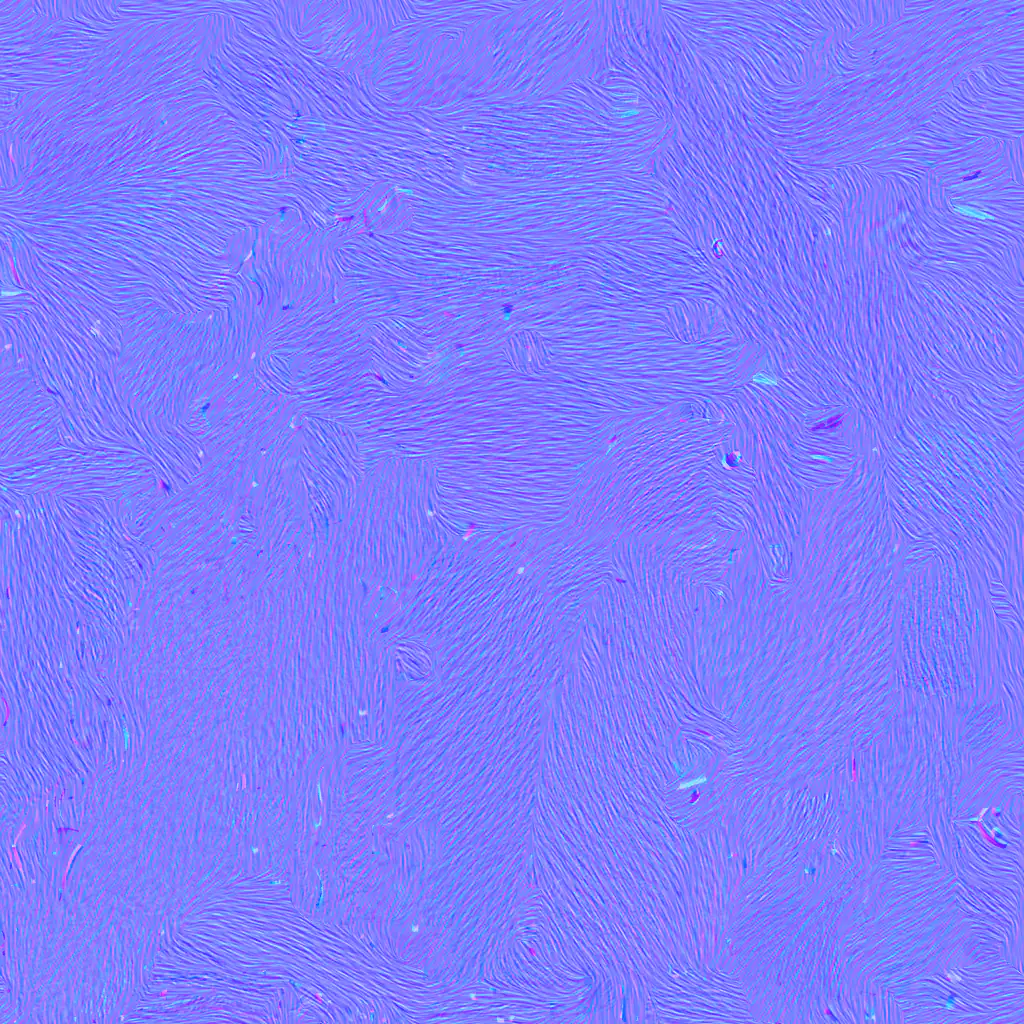
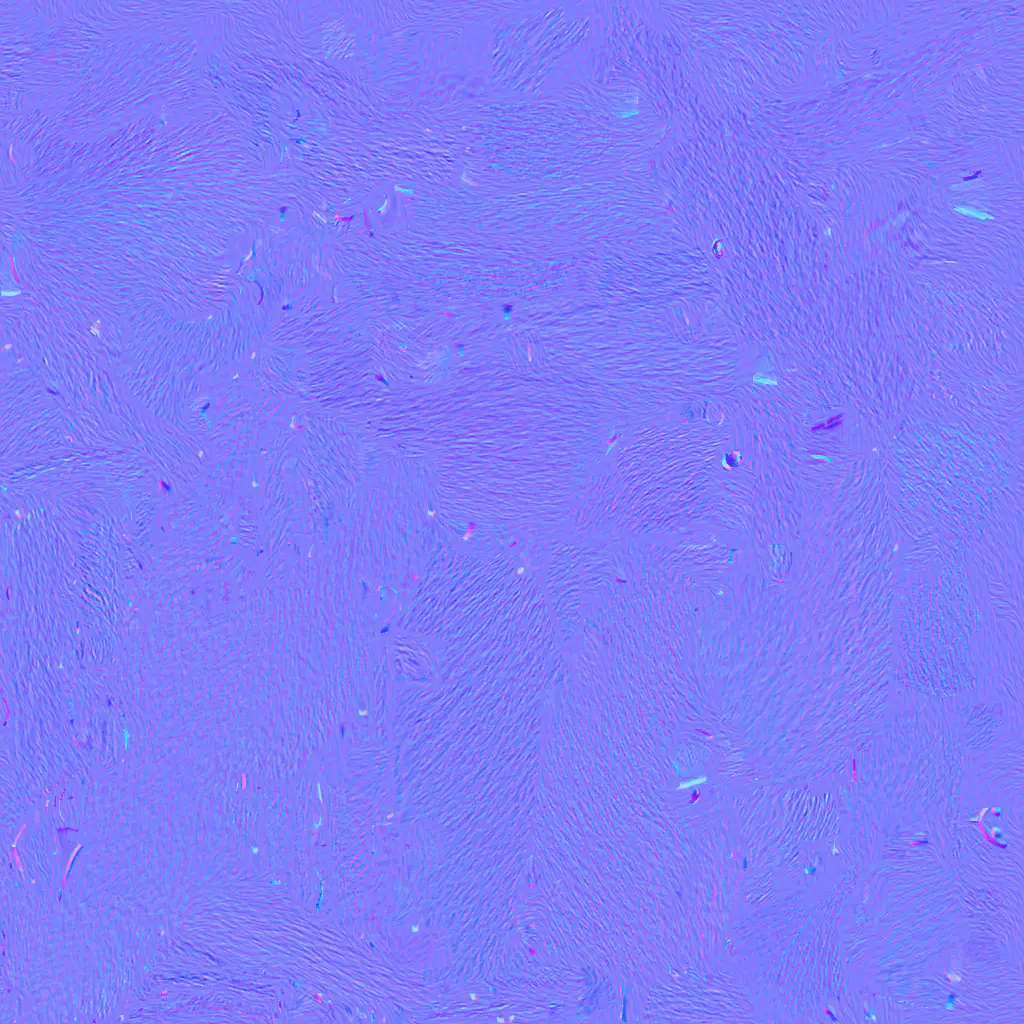
fix(tools): make the added fur strands of the bear softer
The bear maps take the soft strand values of the fox and the badger:
tilt 0.03, luma 0.08, and half length 11 texels. The long, regular
strands of the first values read as carved grooves. The maps are
smaller: color 215,298 to 165,330 bytes, normal 217,400 to 150,232.

diff --git a/tools/bear-maps.py b/tools/bear-maps.py
@@ -37,7 +37,7 @@ NORMAL_GAIN = 4
 LIGHTNESS = 0.87
 #: The texels of the eyeballs and this many texels around them keep their colors.
 EYE_MARGIN = 4
-#: The fur strands that the maps add (`strands()`), with the values of tools/badger-maps.py. The
+#: The fur strands that the maps add (`strands()`), with the soft values of tools/badger-maps.py. The
 #: maps of the Tripo bear source are smooth (assets/models/bear/README.md, "Maps"), so its fur
 #: shows few strands in the app. The strands follow the direction of the faint strokes of the source maps, and they have
 #: the scale of the strands of the other maps (a wavelength of 8 to 10 texels at 1024 pixels
@@ -50,15 +50,15 @@ STRANDS = {
     #: The sigma in texels at SIZE of the blur of the noise: the width of a strand.
     'width_sigma': 1.4,
     #: The half length in texels at SIZE of a strand, and the step of its samples.
-    'half_length': 22.0,
+    'half_length': 11.0,
     'step': 1.0,
     #: The sigma in texels at SIZE of the blur that the height of the strands loses (a high pass).
     'high_pass_sigma': 10.0,
     #: The root mean square of the x, y tilt of the strands in the normal map.
-    'tilt': 0.06,
+    'tilt': 0.03,
     #: The luma factor of the strands in the color map, for each standard deviation of the height:
     #: a strand crest is lighter, and a groove darker.
-    'luma': 0.16,
+    'luma': 0.08,
     #: The largest height of a strand, in standard deviations.
     'clip': 2.5,
 }

diff --git a/assets/models/bear/README.md b/assets/models/bear/README.md
@@ -171,11 +171,11 @@ steps of the blink, no point of the side edges or of the back edge leaves the he
 
 ### Maps
 
-`tools/bear-maps.py` writes both maps, as `tools/badger-maps.py` does: the color map of the
-source at 2048 pixels, with the fur strands of `strands()` (a luma step along the strands), and
-the normal map of the source with the limit 0.2, at 1024 pixels, with the slope of the same
-strands. The source normal map is smooth: its median tilt at 1024 pixels is 0.020, against 0.026 on
-the cat and 0.024 on the wolf.
+`tools/bear-maps.py` writes both maps, as `tools/badger-maps.py` does: the color map of the source
+at 2048 pixels, with the soft fur strands of `strands()` (tilt 0.03, luma 0.08, half length 11
+texels: a luma step along the strands), and the normal map of the source with the limit 0.2, at 1024
+pixels, with the slope of the same strands. The source normal map is smooth: its median tilt at 1024
+pixels is 0.020, against 0.026 on the cat and 0.024 on the wolf.
 
 Each texel of the color map, except the eyeballs, takes 0.87 times its Oklab lightness
 (`LIGHTNESS`). The chroma and the hue stay. In the hall view with no fill light (`close-views play
@@ -191,8 +191,8 @@ y 0.42 to 0.62 of the frame), the median Oklab L, C, and h of the back fur:
 
 | File | Size | SHA-256 |
 |---|---|---|
[4 lines of base64/hex data omitted]
 
 ### Export
 
